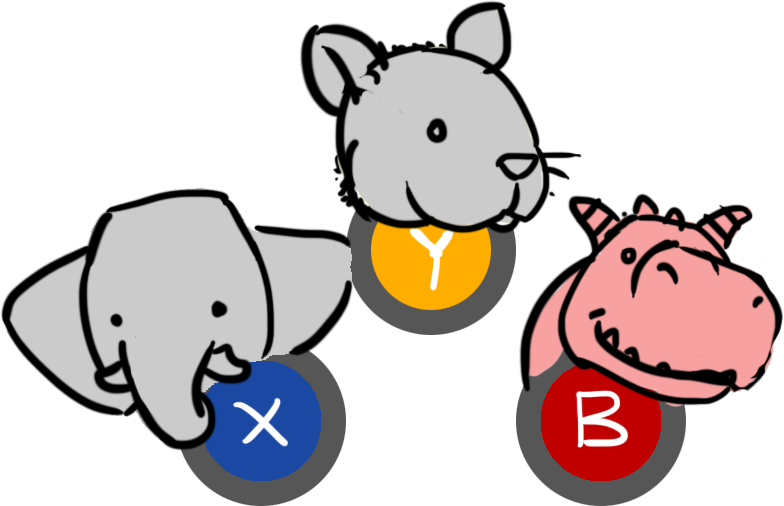
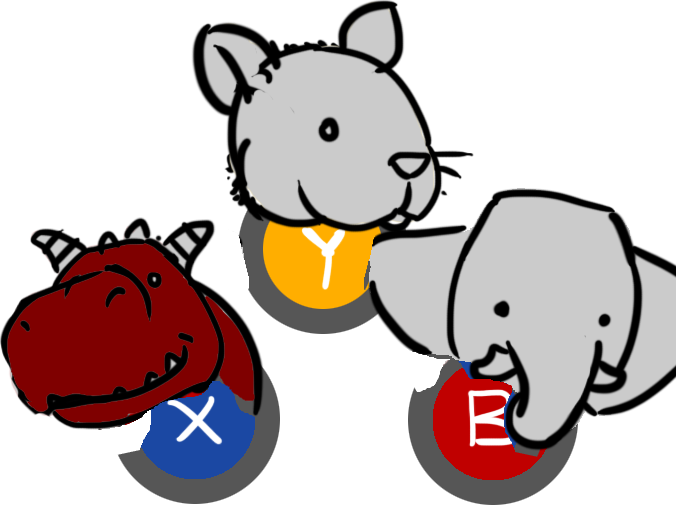
Interface revamp

diff --git a/Assets/Scripts/Framework/HeadsUpDisplayScript.cs b/Assets/Scripts/Framework/HeadsUpDisplayScript.cs
@@ -5,24 +5,24 @@ namespace LotsOfTowers.Framework
 {
 	public class HeadsUpDisplayScript : MonoBehaviour
 	{
-		public GameObject skillsUi;
+		private GameObject skillsUi;
 
 		void Awake()
 		{
 			skillsUi = GameObject.Find("Skills");
 		}
 
-        public void ShowActiveSkill(int skillSlot)
+        public void ShowActiveSkill(string _onesie)
         {
-            switch (skillSlot)
+            switch (_onesie)
             {
-                case 0:
-                    skillsUi.GetComponent<Image>().sprite = Resources.Load("HUD/OnesieDragon", typeof(Sprite)) as Sprite;
-                    break;
-                case 1:
+                case "Elephant":
                     skillsUi.GetComponent<Image>().sprite = Resources.Load("HUD/OnesieElephant", typeof(Sprite)) as Sprite;
                     break;
-                case 2:
+                case "Dragon":
+                    skillsUi.GetComponent<Image>().sprite = Resources.Load("HUD/OnesieDragon", typeof(Sprite)) as Sprite;
+                    break;
+                case "Hamster":
                     skillsUi.GetComponent<Image>().sprite = Resources.Load("HUD/OnesieHamster", typeof(Sprite)) as Sprite;
                     break;
                 default:

diff --git a/Assets/Scripts/Actors/Player.cs b/Assets/Scripts/Actors/Player.cs
@@ -15,7 +15,7 @@ namespace LotsOfTowers.Actors
 
 		// Public fields
 		public GameObject tooltip;
-		public GameObject hudUi;
+		public Framework.HeadsUpDisplayScript hudUi;
 		public GameObject chargeParticles;
 
 		public GameObject elephantHead;
@@ -93,7 +93,7 @@ namespace LotsOfTowers.Actors
 
 			defaultHead = GameObject.Find("Head_Default");
 			defaultBody = GameObject.Find("Body_Default");
-			hudUi = GameObject.Find("HUD");
+			hudUi = GameObject.Find("HUD").GetComponent<Framework.HeadsUpDisplayScript>();
 
 			// Set up the player
 			Physics.gravity = new Vector3(0, -35, 0);
@@ -141,7 +141,10 @@ namespace LotsOfTowers.Actors
 						defaultBody.GetComponent<Renderer>().enabled = false;
 					}
 				}
-			}
+                
+                // Change HUD to represent the active onesie
+                hudUi.ShowActiveSkill(currentOnesie.type.ToString());
+            }
 		}
 
 		public void PlayParticles()

diff --git a/Assets/Scripts/Actors/PlayerController.cs b/Assets/Scripts/Actors/PlayerController.cs
@@ -66,7 +66,7 @@ namespace LotsOfTowers.Actors
 			{
 				//Switch to the selected onesie
 				player.SwitchOnesie(onesie1 ? 0 : (onesie2 ? 1 : 2));
-				switchDelay = InputDelay;
+                switchDelay = InputDelay;
             }
 
             if(canMove)
